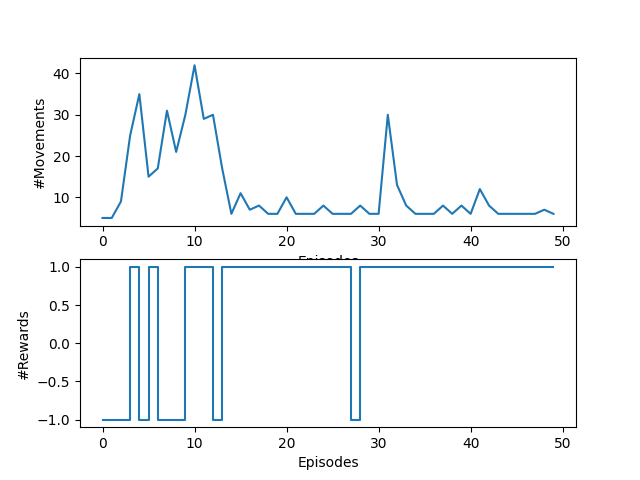
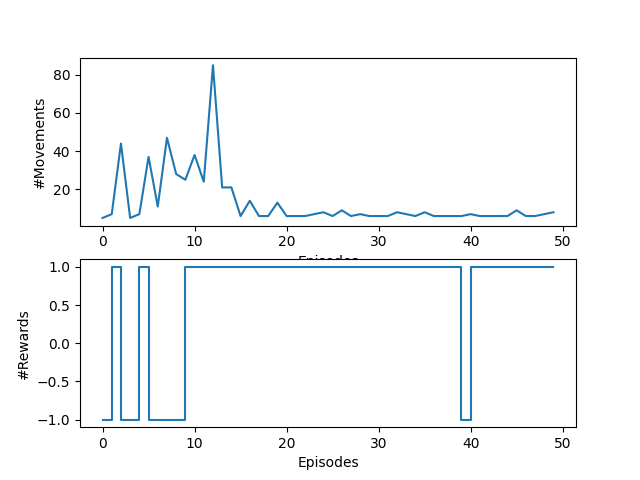
[Feature] Create market class as environment of stock market Create trader agent to interact with environment

diff --git a/simple_trader/agent/trader.py b/simple_trader/agent/trader.py
@@ -1,0 +1,131 @@
+from keras import models
+from keras import layers
+from keras import optimizers
+
+import numpy as np
+import random
+from collections import deque
+
+
+class Trader:
+    def __init__(self, action_size, windows_size, is_eval=False, model_name=""):
+        self.__windows_size = windows_size
+        self.__is_eval = is_eval
+        self.__model_name = model_name
+
+        self.__inventory = []
+        self.__total_profit = 0
+        self.__action_history = []
+        self.__action_size = action_size
+
+        self.__memory = deque(maxlen=1000)
+
+        # Hyperparameters
+        self.__gamma = 0.95
+        self.__epsilon = 1.0
+        self.__epsilon_min = 0.01
+        self.__epsilon_decay = 0.995
+
+        # Model
+        self.__model: models.Sequential = models.load_model(
+            "models/" + model_name) if is_eval else self.__create_model()
+
+        self.__learning_rate = 0.001
+
+    def __create_model(self):
+        model = models.Sequential()
+
+        # input layer
+        model.add(layers.Dense(units=32, input_dim=self.__windows_size, activation='relu'))
+
+        # hidden layer
+        model.add(layers.Dense(units=8, activation='relu'))
+
+        # output layer
+        model.add(layers.Dense(units=self.__action_size, input_dim=self.__windows_size, activation='linear'))
+
+        model.compile(loss='mse', optimizer=optimizers.Adam(lr=self.__learning_rate))
+        return model
+
+    def reset(self):  # reset agent after each episode
+        self.__inventory = []
+        self.__total_profit = 0
+        self.__action_history = []
+
+    def get_action(self, current_state, price_data):
+
+        """
+            if our action is the buy, we add price in inventory to calculate profit later; otherwise,
+             if sell we pop that price from inventory
+        """
+
+        if not self.__is_eval and np.random.rand() <= self.__epsilon:
+            action = random.randrange(self.__action_size)
+
+        else:
+            prediction_of_actions = self.__model.predict(current_state)  # return probability of each action
+            action = np.argmax(prediction_of_actions[0])
+
+        bought_price = None  # just return in sell of position
+
+        if action == 0:  # do noting
+            print(".", end="", flush=True)
+
+        elif action == 1:  # buy
+            self.__buy(price_data)
+            self.__action_history.append(action)
+
+        elif action == 2 and bool(self.__inventory):  # sell
+            bought_price = self.__sell(price_data)
+            self.__action_history.append(action)
+
+        else:
+            self.__action_history.append(0)
+
+        return action, bought_price
+
+    def __buy(self, price_data):
+        self.__inventory.append(price_data)
+        print(f"Buy: {self.__format_price(price_data)}")
+
+    def __sell(self, price_data):
+        bought_price = self.__inventory.pop(0)
+        profit = price_data - bought_price
+        self.__total_profit += profit
+        print(f"Sell: {self.__format_price(price_data)} | Profit: {profit}")
+        return bought_price
+
+    @classmethod
+    def __format_price(cls, price):
+        return ("-$" if price < 0 else "$") + "{0:.2f}".format(abs(price))
+
+    @property
+    def total_profit(self):
+        return self.__format_price(self.__total_profit)
+
+    def experience_replay(self, batch_size):
+        mini_batch = []  # create mini batch to store state-action from previous and create mini-batch from memory
+        memory_length = len(self.__memory)
+
+        for i in range(memory_length - batch_size + 1, memory_length):
+            mini_batch.append(self.__memory[i])
+
+        for state, action, reward, next_state, done in mini_batch:
+            if done:
+                target = reward  # Q-value equal to immediate reward
+
+            else:
+                # find Q-value for the next state
+                next_q_values = self.__model.predict(next_state)[0]
+                target = reward + self.__gamma * np.amax(next_q_values)  # bellman equation
+
+            predicated_target = self.__model.predict(state)
+
+            # update action-value
+            predicated_target[0][action] = target
+
+            # update model input --> state | output --> predicted_target
+            self.__model.fit(state, predicated_target, epochs=1, verbose=0)
+
+        if self.__epsilon > self.__epsilon_min:  # by going to lower epsilon use predicted instead random action
+            self.__epsilon *= self.__epsilon_decay

diff --git a/simple_trader/environment/market.py b/simple_trader/environment/market.py
@@ -1,0 +1,56 @@
+import numpy as np
+
+from simple_trader.data.data_reader import DataReader
+
+
+class Market:
+    def __init__(self, windows_size, ticker):
+        self.__ticker = ticker
+        self.__window_size = windows_size
+        self.__states = None
+        self.__data: list = DataReader.read_data(ticker)
+        self.__action = ['hold', 'buy', 'sell']
+        self.__index = -1
+        self.__last_data_index = len(self.__data) - 1
+
+    def __data_preprocess(self):
+        pre_processed_data = []
+
+        for t in range(len(self.__data)):
+            state = self.__get_state(t)
+            pre_processed_data.append(state)
+
+        return pre_processed_data
+
+    def __get_state(self, current_data_index):
+        start_index = current_data_index - self.__window_size + 2
+        data_block = self.__data[start_index: current_data_index + 1] if start_index >= 0 else (
+                -start_index * [self.__data[0]] + self.__data[0: current_data_index + 1])
+        result = []
+        for i in range(self.__window_size):
+            result.append(data_block[i + 1] - data_block[i])
+
+        return np.array([result])
+
+    def reset(self):
+        self.__index = -1
+        return self.__states[0], self.__data[0]
+
+    def get_next_state_reward(self, action, bought_price=None):
+        self.__index += 1
+
+        if self.__index > self.__last_data_index:
+            self.__index = 0
+
+        next_state = self.__states[self.__index + 1]
+        next_price_data = self.__data[self.__index + 1]
+
+        price_data = self.__data[self.__index]  # current price
+        reward = 0
+
+        if action == 2 and bought_price is not None:
+            reward = max(price_data - bought_price, 0)
+
+        done = True if self.__index == self.__last_data_index - 1 else False
+
+        return next_state, next_price_data, reward, done

diff --git a/simple_trader/data/data_reader.py b/simple_trader/data/data_reader.py
@@ -1,0 +1,11 @@
+
+class DataReader:
+
+    @classmethod
+    def read_data(cls, ticker) -> list:
+        vec = []
+        lines = open("data/" + ticker + ".csv", "r").read().splitlines()
+        for line in lines[1:]:
+            vec.append(float(line.split(',')[4]))
+
+        return vec

diff --git a/simple_trader/ReadMe.md b/simple_trader/ReadMe.md
@@ -1,0 +1,39 @@
+# Maze Problem
+
+
+# Problem Definition
+ This project is a simulation of stock trading using Deep Q-Network (DQN)
+
+# Environment
+ Environment consists the stock market and stock price changes  
+ Environment consists of a method to get next reward (profit) of total trading based on the bought price and new action
+
+## States
+ Stock price changes per each day as a state <br>
+ We assume the closing price as a price of each data <br>
+ If we have the last 4 days prices then we have 3 states (3 price changes)
+ 
+## Actions
+ Actions consist of:<br>
+ 1- Buy stock  
+ 2- Sell stock  
+ 3- Hold stock  
+ 
+## Reward
+ Reward in stock trading defines as a gaining profit when the agent sells the stock at the end.  
+Only consider positive reward for selling stock, otherwise, receive zero as a reward.
+
+
+# Agent
+The training agent has two methods:
+
+ 1- Trade method to buy or sell based on current state and price (in case of sell we need price and return extra parameters)<br>
+ 2- Experience Learning learns based on the last batch of transitions that are the good actions and reward
+
+The evaluation agent just has a trade method to act in the environment and predict the action based on the given state.
+
+# App
+We have a two apps that one of them used for training and the another one use for evaluating method
+App.py handle the interactions between agent and perform action on the environment and then get reward 
+and then choose new action
+
